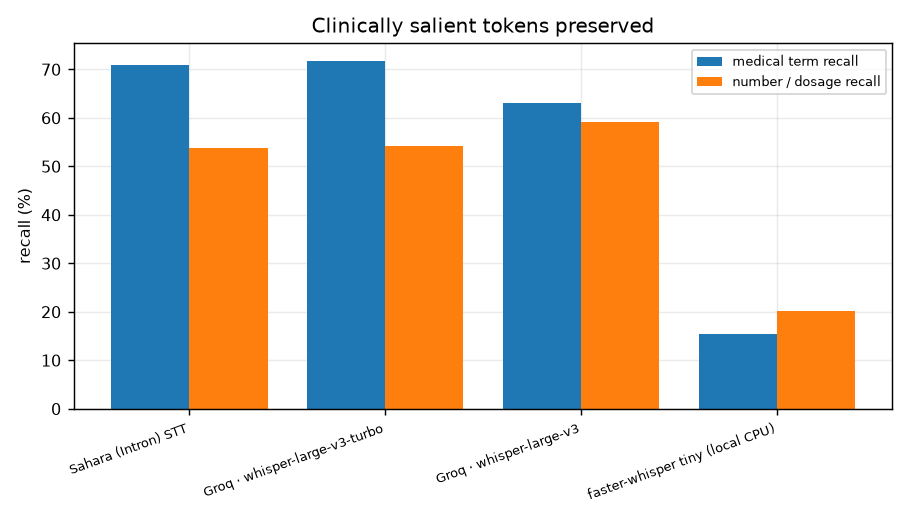
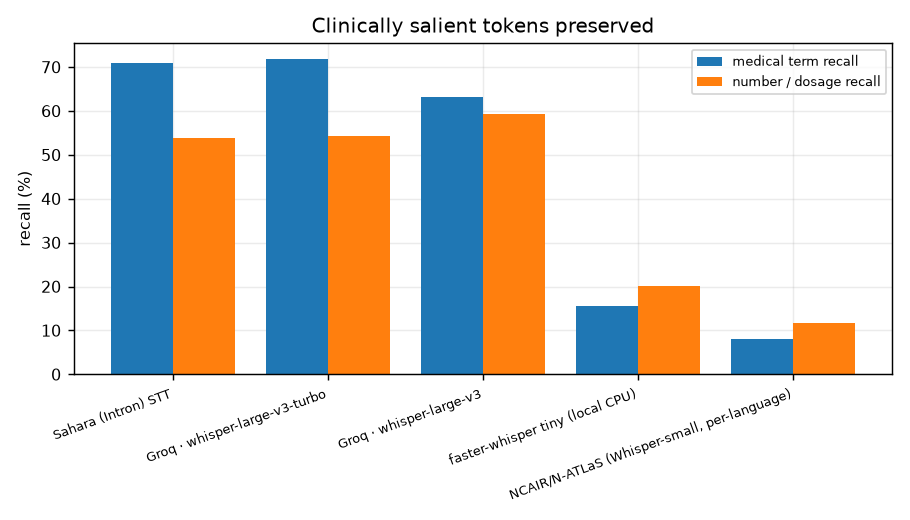
benchmark: NCAIR/N-ATLaS full run — a real finding, not a bug
41/41 relevant segments (Yoruba/Hausa/Igbo — no Pidgin/Swahili
checkpoint) scored against the frozen AfriSwitchCare subset. Headline
WER is ~99%, which reads like a crash at a glance — it isn't.

NCAIR's three checkpoints are monolingual fine-tunes. On code-switched
clinical speech they don't drop the English portions — they
*transliterate* them phonetically into the target language's script.
The reference's "okay, good morning good morning doctor" comes back as
"ọ̀kẹ́ gbúdùn máa ń ní... ọ̀kẹ́rin ni" — "ọ̀kẹ́" being how "okay" sounds
spelled in Yoruba orthography. Fluent monolingual output, but it erases
the one thing this benchmark measures. Confirmed by hand against the
actual reference/hypothesis pairs before accepting the number as real
rather than assuming a scoring bug.

Added ncair_finding_note() to report.py so this is explained inline
rather than leaving an unexplained 99% next to a model name — exactly
the kind of failure mode a monolingual model would be expected to have
on code-switched speech, and exactly what a code-switching benchmark
should be surfacing rather than quietly averaging away.

Sahara remains the overall winner (WER 53.1 vs the next-best 59.4).

diff --git a/benchmark/report.py b/benchmark/report.py
@@ -272,6 +272,31 @@ def language_scope_note(summary: dict) -> str:
             "\"not applicable\", not \"failed\".*\n")
 
 
+def ncair_finding_note(summary: dict) -> str:
+    """NCAIR/N-ATLaS's WER on this set (~99%) reads like a crash or a scoring
+    bug at a glance — it isn't. Its three checkpoints are monolingual
+    fine-tunes (trained on pure Yoruba/Hausa/Igbo), and on code-switched
+    clinical speech they transliterate the English portions phonetically
+    into the target language's script rather than transcribing them as
+    English — e.g. the reference's "okay, good morning" comes back as
+    "ọ̀kẹ́, gúdù mọ̀nìn". Fluent monolingual output, but it destroys the one
+    thing this benchmark is actually testing. Worth saying plainly rather
+    than leaving a 99% next to a model name with no explanation."""
+    if "ncair-atlas" not in summary["models"]:
+        return ""
+    return (
+        "\n**On NCAIR/N-ATLaS's WER:** its three checkpoints are monolingual "
+        "fine-tunes, not code-switch-aware ones. On this set they don't drop "
+        "English words — they *transliterate* them phonetically into the "
+        "target language's script (the reference's \"okay, good morning\" "
+        "comes back as *\"ọ̀kẹ́, gúdù mọ̀nìn\"*). Fluent Yoruba/Hausa/Igbo "
+        "output, technically, but it erases the English half of every "
+        "code-switched sentence — exactly the failure mode a monolingual "
+        "model would be expected to have here, and exactly what this "
+        "benchmark is built to surface rather than average away.\n"
+    )
+
+
 def _head(text: str, n: int) -> str:
     toks = normalize(text).split()
     return " ".join(toks[:n]) + (" …" if len(toks) > n else "")
@@ -333,6 +358,7 @@ speech or merely memorised it). The exact clips are frozen in
 
 {table_overall(summary)}
 {language_scope_note(summary)}
+{ncair_finding_note(summary)}
 {table_incomplete(summary)}
 
 - **WER** — light normalisation (lower-case, punctuation & speaker tags removed).

diff --git a/benchmark/report/REPORT.md b/benchmark/report/REPORT.md
@@ -1,7 +1,7 @@
 # Kare · code-switching ASR benchmark
 
 *Generated by `python -m benchmark.report` from `results/`. Ran
-2026-09-11 13:17 UTC on 3.12.14 / macOS-13.4-x86_64-i386-64bit.*
+2026-09-14 20:30 UTC on 3.12.14 / macOS-13.4-x86_64-i386-64bit.*
 
 **What this measures.** Nigerian patients do not speak one language at a time.
 They say *"the doctor talk say my BP dey high"* — Yoruba/Pidgin grammar with
@@ -29,6 +29,13 @@ speech or merely memorised it). The exact clips are frozen in
 | Groq · whisper-large-v3-turbo | 59.4 | 58.9 | 39.9 | 71.8 | 54.2 | 6.5 | 63.4 | 0.13 | $0.0007 |
 | Groq · whisper-large-v3 | 64.1 | 63.7 | 43.1 | 63.1 | 59.3 | 7.6 | 71.8 | 0.05 | $0.0019 |
 | faster-whisper tiny (local CPU) | 85.2 | 85.0 | 67.8 | 15.5 | 20.2 | 7.4 | 121.8 | 0.41 | $0.0000 |
+| NCAIR/N-ATLaS (Whisper-small, per-language) | 99.3 | 98.7 | 78.3 | 8.1 | 11.6 | 23.1 | 144.9 | 1.08 | $0.0000 |
+
+*Scored on a restricted language set: **NCAIR/N-ATLaS (Whisper-small, per-language)** — Yoruba, Hausa, Igbo only. Its overall/by-language numbers above cover only those languages — dashes elsewhere mean "not applicable", not "failed".*
+
+
+**On NCAIR/N-ATLaS's WER:** its three checkpoints are monolingual fine-tunes, not code-switch-aware ones. On this set they don't drop English words — they *transliterate* them phonetically into the target language's script (the reference's "okay, good morning" comes back as *"ọ̀kẹ́, gúdù mọ̀nìn"*). Fluent Yoruba/Hausa/Igbo output, technically, but it erases the English half of every code-switched sentence — exactly the failure mode a monolingual model would be expected to have here, and exactly what this benchmark is built to surface rather than average away.
+
 
 
 - **WER** — light normalisation (lower-case, punctuation & speaker tags removed).
@@ -52,6 +59,7 @@ speech or merely memorised it). The exact clips are frozen in
 | Groq · whisper-large-v3-turbo | 62.3 | 90.6 | 67.3 | 67.9 | 29.3 | 72.0 | -42.7 |
 | Groq · whisper-large-v3 | 63.9 | 83.9 | 67.8 | 91.9 | 30.5 | 76.9 | -46.3 |
 | faster-whisper tiny (local CPU) | 87.2 | 94.2 | 81.6 | 94.7 | 75.3 | 89.4 | -14.2 |
+| NCAIR/N-ATLaS (Whisper-small, per-language) | 97.0 | 101.6 | 100.5 | — | — | 99.7 | — |
 
 *"Swahili Δ" is Swahili WER minus the mean of the four Nigerian languages. A
 large positive Δ means the model leans on West-African-specific training and
@@ -65,6 +73,7 @@ generalises poorly; a small Δ means it is broadly multilingual.*
 | Groq · whisper-large-v3-turbo | 75.4 | 50.1 | 58.2 | -17.2 |
 | Groq · whisper-large-v3 | 90.2 | 53.2 | 57.4 | -32.7 |
 | faster-whisper tiny (local CPU) | 91.7 | 76.9 | 89.6 | -2.1 |
+| NCAIR/N-ATLaS (Whisper-small, per-language) | 112.7 | 96.7 | 93.8 | -18.9 |
 
 ![WER by CMI](charts/wer_by_cmi.png)
 
@@ -81,6 +90,7 @@ exactly the utterances Kare sees most. A flat line is what we want.
 | Groq · whisper-large-v3-turbo | 128.5 | 16.3 | 0.13 | $0.09 | fastest hosted option |
 | Groq · whisper-large-v3 | 128.5 | 6.4 | 0.05 | $0.24 | free tier rate-limited; price shown is paid tier |
 | faster-whisper tiny (local CPU) | 128.5 | 52.3 | 0.41 | — | runs on a CPU laptop, no network |
+| NCAIR/N-ATLaS (Whisper-small, per-language) | 63.8 | 69.2 | 1.08 | — |  |
 
 ## Clinically salient tokens
 
@@ -103,6 +113,7 @@ First ~45 words of one conversation per language, all models. `[[EN]]…[[/EN]]`
 - **Groq · whisper-large-v3-turbo** (WER 49, keyterm 80) · okay good morning good morning doctor okay what's your name elijah samuel okay how old are you i'm 28 okay so do you like to be able to see your speech later i came to complain about abdominal pain okay how long ago have you …
 - **Groq · whisper-large-v3** (WER 44, keyterm 70) · ok good morning good morning doctor ok what's your name elijah samuel ok how old are you i'm 28 ok so what are you doing at the hospital i came to complain about abominable pain ok how long have you been having this abominable pain …
 - **faster-whisper tiny (local CPU)** (WER 88, keyterm 3) · okay good morning good morning doctor okay good morning good morning doctor okay who are you okay okay so what do you want to do okay so what do you want to do okay how long have you been able to do this 4 years …
+- **NCAIR/N-ATLaS (Whisper-small, per-language)** (WER 92, keyterm 0) · ọ̀kẹ́ gbúdùn máa ń ní gbúdùn máa ń ní dọ́pọ̀ ọ̀kẹ́ ọ̀kẹ́rin ni ìlàjà sáámù rẹ̀ ọ̀kẹ́ ó wò dáayù 188 ọ̀kẹ́ tó kílọ́gbẹ̀rẹ̀ wá sí ọ̀sìn túlẹ́nì àgé ìtukọ̀ ún pé ìgbọ̀ọ́ táàgbòmínà wọ́pẹ̀ ọ̀kẹ́ àwọn ọ̀gbọ̀ ní ìsàbòmínà pín fọ̀rẹ̀ èsìgò ọ̀kẹ́ ṣẹ̀ …
 
 ### Hausa — Acute Appendicitis (gold CMI 28.46)
 
@@ -112,6 +123,7 @@ First ~45 words of one conversation per language, all models. `[[EN]]…[[/EN]]`
 - **Groq · whisper-large-v3-turbo** (WER 96, keyterm 22) · sousa a mee su nanka su nana abdi kait dan shakarana anee chikarana ashirin datakos meey a kao ka zua abso biti mo chivoan chiki nne kei echi ya kei kwa na na na na ya kei kwa na ulu okay um chivo chikin dan …
 - **Groq · whisper-large-v3** (WER 81, keyterm 11) · gei suwa sa me sunanka sunana abdi kaj dan shakara nani shakara na asherin datakos me ya kawa kazuwa hawasi bitimu chivo nchikin ekeji ya ke kwanana ya ke kwanana kudu oke am chivo chikinden ina kanaji chivo den ya paramundi daga samun chiki nani …
 - **faster-whisper tiny (local CPU)** (WER 95, keyterm 0) · gesewa sa mey sunanka sunara abdu kaik da nishakara anani unki karanahashira nuda tapas meyakao ka zua havesubitun kaik da nishakara anana kaik da nishakara anana kaik da nishakara anana kaik da nishakara anana kaik da nishakara anana kana sikaba pendants ko naga nea zua …
+- **NCAIR/N-ATLaS (Whisper-small, per-language)** (WER 101, keyterm 0) · gaisuwa sir mai sunan ka suna na abdul kai don shekaru na ne um shekaru na ashirin da tafas mai ya kawo ka zo a hafsibitin mu kala ciwon ciki na ke ci ya kai kwana na ya kai kwana uduk ok um ciwon cikin …
 
 ### Igbo — Asthma (gold CMI 39.43)
 
@@ -121,6 +133,7 @@ First ~45 words of one conversation per language, all models. `[[EN]]…[[/EN]]`
 - **Groq · whisper-large-v3-turbo** (WER 78, keyterm 40) · okay welcome to our hospital thank you before we get there um how far we could do i did 27 years okay okay okay okay video oh one day two days ago okay okay does it come very frequently no okay is it better during …
 - **Groq · whisper-large-v3** (WER 77, keyterm 67) · good evening doctor good evening welcome to our hospital thank you again you need to be at her doctor okwara ok before we get there how old were you 27 years okay okay okay so oh one day two days ago okay when did you …
 - **faster-whisper tiny (local CPU)** (WER 88, keyterm 27) · there were a mouth where are the doctors where did you leave did you leave me let me leave thank you okay welcome to our hospital thank you thank you thank you good morning doctor who are who are you who are you okay before …
+- **NCAIR/N-ATLaS (Whisper-small, per-language)** (WER 90, keyterm 0) · ndewu m arụ ndewu dọkịta ndewu ndewu ma eletịrị ọ dị m mma nke wakọmụkwọ mụsụtụ sankịọ ọ gịnị na eji bịa taa mụ dọkịta ọkwara ọkwara nke dị fọlụ get there m afọ rikidi adị ntụrịnci 7 yed ok enweghị nke na arụ ugbo …
 
 ### Pidgin — Acute Appendicitis (gold CMI 0.53)
 
